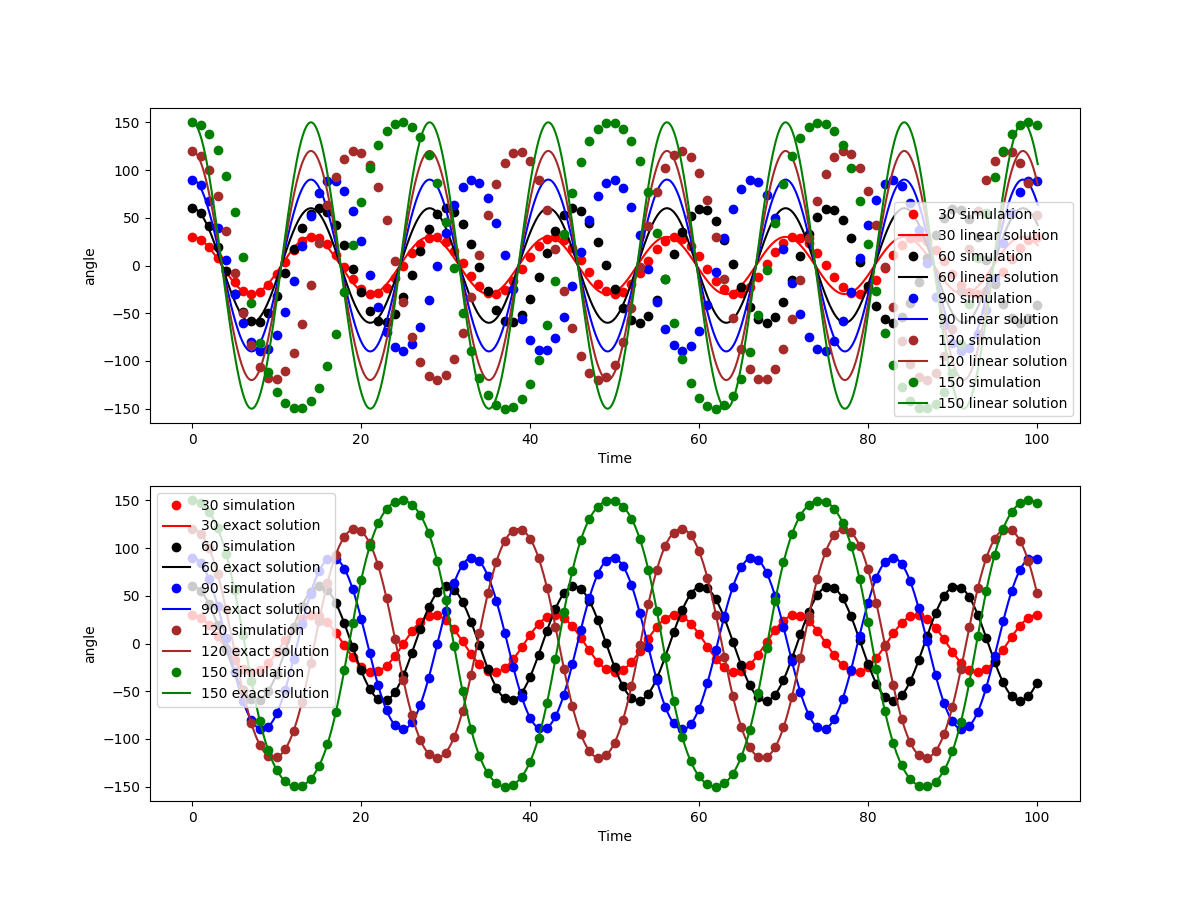
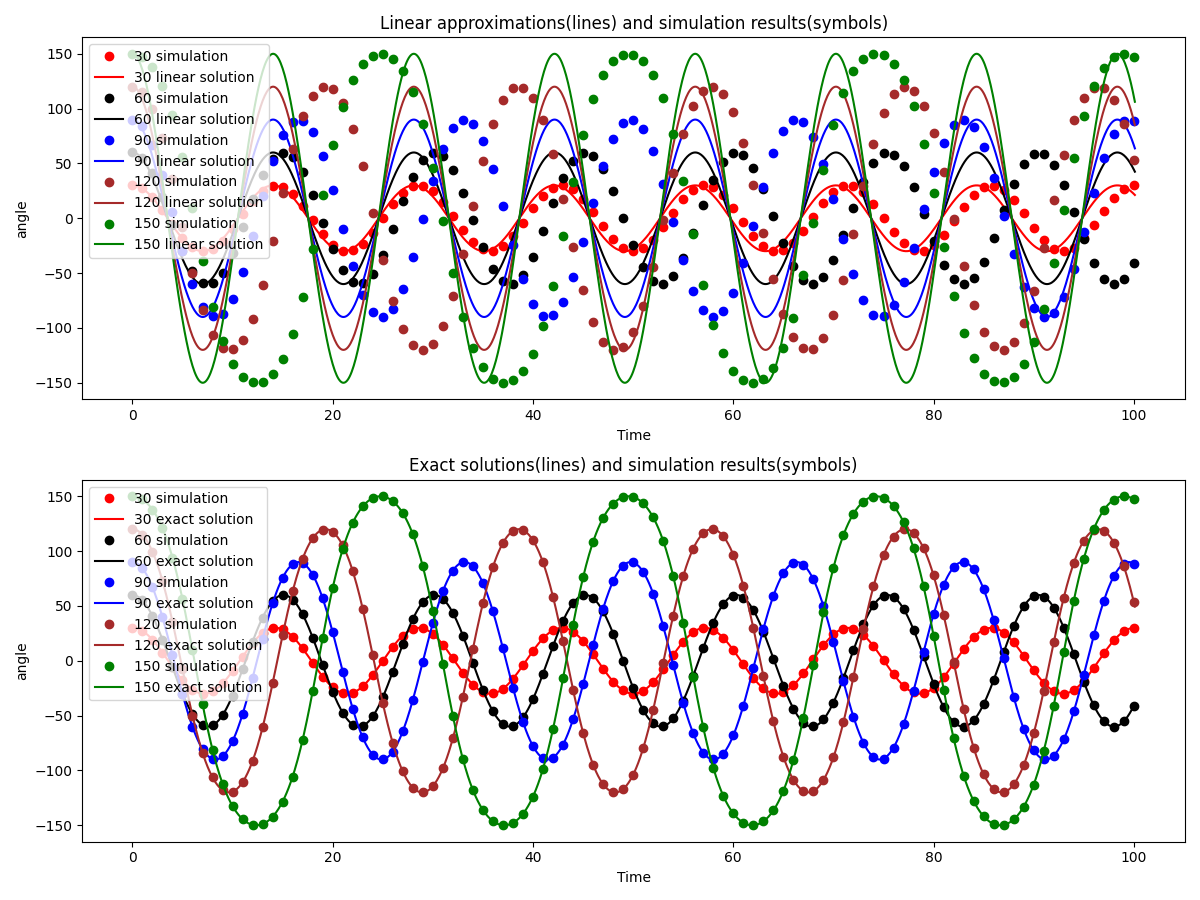
update simplePendulum and add functions

diff --git a/python/pemInertiaMoment.py b/python/pemInertiaMoment.py
@@ -1,4 +1,62 @@
 import numpy as np
+from UDFManager import *
+import copy
+
+def analyzer(udf,ibody):
+    bloc=Location("body[]",[ibody])
+    n=udf.size(bloc.str()+".shape[]")
+    sloc=Location(bloc.str()+".shape[0]")
+    IM=np.zeros((3,3))
+    COM=np.zeros(3)
+    MM=0.0
+    for i in range(n):
+        lpos=np.array(udf.get(sloc.str()+".center"))
+        mass=np.array(udf.get(sloc.str()+".mass"))
+        s=udf.get(sloc.str()+".shape")
+        ii=np.zeros((3,3))
+        if s=="sphere":
+            a=udf.get(sloc.str()+".sphere.radius")
+            ii=sphere(mass,a)
+        elif s=="cylinder":
+            a=udf.get(sloc.str()+".cylinder.radius")
+            h=udf.get(sloc.str()+".cylinder.length")
+            d=np.array(udf.get(sloc.str()+".cylinder.d"))
+            ii=cylinder(mass,a,h,d)
+        elif s=="ellipsoid":
+            a=udf.get(sloc.str()+".ellipsoid.a")
+            b=udf.get(sloc.str()+".ellipsoid.b")
+            c=udf.get(sloc.str()+".ellipsoid.c")
+            da=np.array(udf.get(sloc.str()+".ellipsoid.da"))
+            db=np.array(udf.get(sloc.str()+".ellipsoid.db"))
+            dc=np.cross(da,db)
+            ii=ellipsoid(mass,a,b,c,da,db)
+        elif s=="cuboid":
+            a=udf.get(sloc.str()+".cuboid.a")
+            b=udf.get(sloc.str()+".cuboid.b")
+            c=udf.get(sloc.str()+".cuboid.c")
+            da=np.array(udf.get(sloc.str()+".cuboid.da"))
+            db=np.array(udf.get(sloc.str()+".cuboid.db"))
+            dc=np.cross(da,db)
+            ii=cuboid(mass,a,b,c,da,db)
+        elif s=="line":
+            l=udf.get(sloc.str()+".line.l")
+            d=np.array(udf.get(sloc.str()+".line.d"))
+            ii=line(mass,l,d)
+        elif s=="point":
+            ii=point(mass)
+        elif s=="mesh":
+            vertex=np.array(udf.get(sloc.str()+".mesh.vertex[].position"))
+            face=udf.get(sloc.str()+".mesh.face[].vertex[]")
+            ii=mesh(mass,vertex,face)
+        IM+=translate(lpos,mass,ii)
+        COM+=mass*lpos
+        MM+=mass
+        sloc.next() 
+    udf.put(MM,bloc.str()+".analysis.mass")
+    COM/=MM
+    udf.put(COM.tolist(),bloc.str()+".analysis.massCenter")
+    ii=[IM[0][0],IM[1][1],IM[2][2],IM[1][0],IM[2][0],IM[2][1]]
+    udf.put(ii,bloc.str()+".analysis.inertiaMoment")
 
 def sphere(m=1.0,a=1.0):
 	return 0.4*m*a*a*np.eye(3)

diff --git a/sample/simplePendulum/plot_angle.py b/sample/simplePendulum/plot_angle.py
@@ -7,7 +7,7 @@ def const_k_linear(theta0):
 	k2=0.25*theta0*theta0
 	return np.sqrt(k2)
 
-def const_k_exact(g,l,theta0):
+def const_k_exact(theta0):
 	k2=0.5*(1-np.cos(theta0))
 	return np.sqrt(k2)
 
@@ -41,17 +41,20 @@ for i,(theta0,color) in enumerate(zip(theta0s,colors),1):
 ax.legend()
 ax.set_xlabel("Time")
 ax.set_ylabel("angle")
+ax.set_title("Linear approximations(lines) and simulation results(symbols)")
 #
 ax=plt.subplot(212)
 for i,(theta0,color) in enumerate(zip(theta0s,colors),1):
 	ax.plot(df.loc[::10,0],df.loc[::10,i],label=str(theta0)+" simulation",linestyle="",marker='o',color=color)
 	k=const_k_exact(g,l,np.deg2rad(theta0))
-	T=period_exact(l,g,k)
+	T=period_exact(k)
 	theta=angle_exact(df.loc[:,0].values,k,T,l,g)
 	ax.plot(df.loc[:,0],theta,label=str(theta0)+" exact solution",linestyle="-",color=color)
 ax.legend()
 ax.set_xlabel("Time")
 ax.set_ylabel("angle")
+ax.set_title("Exact solutions(lines) and simulation results(symbols)")
+plt.tight_layout()
 plt.savefig('./time_angle.png')
 plt.show()
 
